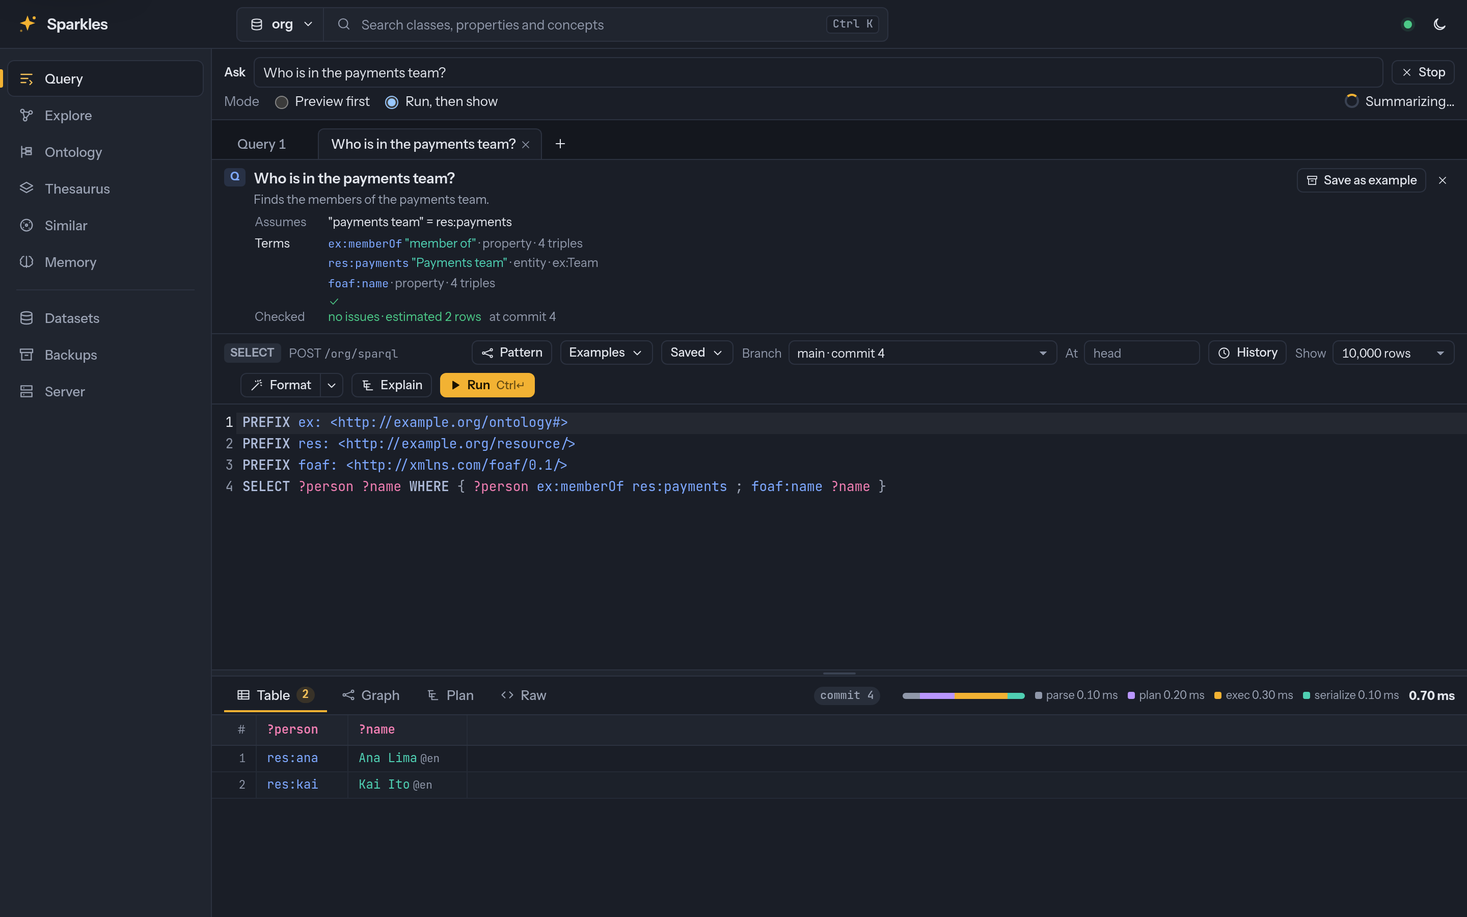
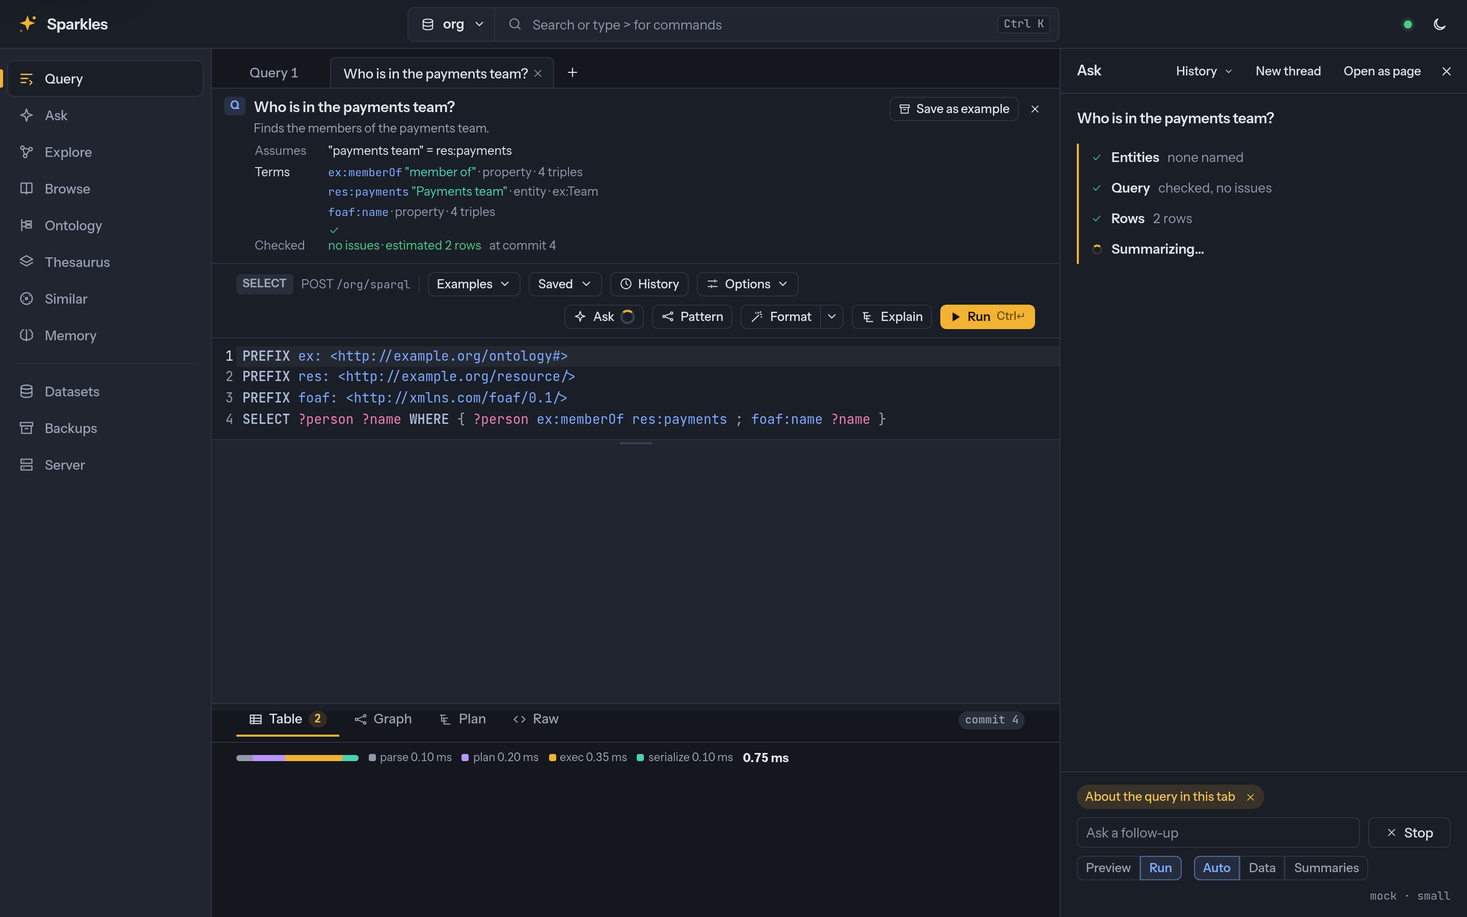
Describe the Ask thread in the AI guide, FEATURES, C18 and the roadmap, with its screenshots, and add item NEW-ITEM-2 for grounding from the structured context (NEW-ITEM-1)

diff --git a/ui/tests/screenshots-mock/screenshots.spec.ts b/ui/tests/screenshots-mock/screenshots.spec.ts
@@ -3,8 +3,9 @@
 // the mock backend that playwright.screenshots-mock.config.ts starts. The SKOS editing forms
 // use a `thesaurus` dataset and the SKOS layouts of mock/forms.mjs. The `org` dataset
 // gets a branch whose changes clash with main, so that the dataset page shows branches and
-// the commit graph and the merge page shows conflicts. The Ask bar runs the scripted
-// pipeline of mock/assistant.mjs, and a handoff link stands in for an agent's
+// the commit graph and the merge page shows conflicts. The Ask thread runs the scripted
+// pipeline of mock/assistant.mjs on its page, docked on the Query page and on a Browse
+// page, and a handoff link stands in for an agent's
 // `share_query`. The maps of relations, the communities, the Pattern pane, the diff graph
 // and the path finder on a query's graph use the `world` showcase dataset of
 // mock/world.mjs. The model configuration form uses the declared configuration of
@@ -138,43 +139,71 @@ test('merge', async ({ page }) => {
   await shoot(page, 'merge');
 });
 
-async function openQuery(page: Page) {
+async function runMode(page: Page) {
   await page.addInitScript(() =>
     localStorage.setItem('sparkles.askPrefs.local', JSON.stringify({ mode: 'run' })),
   );
-  await page.goto(`/ui/query?ds=${DATASET}`);
-  await expect(page.getByRole('region', { name: 'Ask bar' })).toBeVisible({ timeout: 30_000 });
 }
 
-async function ask(page: Page, question: string) {
-  const bar = page.getByRole('region', { name: 'Ask bar' });
-  await bar.getByRole('textbox').fill(question);
-  await bar.getByRole('button', { name: 'Ask' }).click();
+async function ask(scope: ReturnType<Page['getByRole']>, question: string) {
+  await scope.getByRole('textbox', { name: 'Question' }).fill(question);
+  await scope.getByRole('textbox', { name: 'Question' }).press('Enter');
 }
 
 test('ask-steps', async ({ page }) => {
-  // the mock holds this ask before its summary, so the step indicator stays up
+  // the mock holds this ask before its summary, so the turn shows its step and Stop
   await page.route(`**/${DATASET}/ask`, (route) =>
     route.continue({
       postData: JSON.stringify({ ...route.request().postDataJSON(), hold: 'summary' }),
     }),
   );
-  await openQuery(page);
-  await ask(page, 'Who is in the payments team?');
-  const bar = page.getByRole('region', { name: 'Ask bar' });
-  await expect(bar.getByRole('status')).toContainText('Summarizing');
+  await runMode(page);
+  await page.goto(`/ui/query?ds=${DATASET}`);
+  await page.getByRole('button', { name: 'Ask', exact: true }).click({ timeout: 30_000 });
+  const drawer = page.getByRole('complementary', { name: 'Ask' });
+  await ask(drawer, 'Who is in the payments team?');
+  await expect(drawer.getByRole('status')).toContainText('Summarizing');
   await expect(page.getByRole('grid')).toContainText('Kai Ito');
   await shoot(page, 'ask-steps', { spinners: 1 });
 });
 
 test('ask-answer', async ({ page }) => {
-  await openQuery(page);
-  await ask(page, 'Who is in the payments team?');
-  const answer = page.getByRole('region', { name: 'Answer' });
-  await expect(answer).toContainText(/cites \d+ of \d+ rows/);
-  await answer.getByRole('button', { name: '[1]' }).click();
-  await expect(page.getByRole('grid').locator('[aria-selected="true"]')).toHaveCount(1);
+  await runMode(page);
+  await page.goto(`/ui/ask?ds=${DATASET}`);
+  const thread = page.getByRole('region', { name: 'Thread' });
+  await ask(thread, 'Who is in the payments team?');
+  const turn = thread.getByRole('article', { name: 'Who is in the payments team?' });
+  await expect(turn.getByRole('group', { name: 'Feedback' })).toBeVisible({ timeout: 30_000 });
+  await turn.getByRole('button', { name: /^Query/ }).click();
+  await turn.getByRole('button', { name: 'Citation [1]' }).click();
+  await expect(turn.getByText('Cited rows', { exact: true })).toBeVisible();
+  await expect(turn.locator('blockquote').first()).toBeVisible();
   await shoot(page, 'ask-answer');
+});
+
+test('ask-drawer', async ({ page, request }) => {
+  expect(
+    (await request.put('/$/assistant/uni', { data: { enabled: true, send: 'rows' } })).ok(),
+  ).toBe(true);
+  try {
+    await runMode(page);
+    await page.goto(
+      `/ui/browse?ds=uni&iri=${encodeURIComponent('http://example.org/uni#Professor')}`,
+    );
+    await expect(page.locator('h1.term-title')).toBeVisible({ timeout: 30_000 });
+    await page.locator('h1.term-title').click();
+    await page.keyboard.press('Shift+A');
+    const drawer = page.getByRole('complementary', { name: 'Ask' });
+    // the empty thread offers questions about the class it carries as context
+    await expect(
+      drawer
+        .getByRole('group', { name: 'Suggested questions' })
+        .getByRole('button', { name: 'What are its subclasses?' }),
+    ).toBeVisible();
+    await shoot(page, 'ask-drawer');
+  } finally {
+    await request.put('/$/assistant/uni', { data: {} });
+  }
 });
 
 test('handoff', async ({ page }) => {
@@ -1369,9 +1398,7 @@ test('thesaurus-checks', async ({ page }) => {
   await page.goto('/ui/thesaurus?ds=thes');
   await expect(
     thesTree(page).getByRole('button', { name: 'Vertebrates', exact: true }),
-  ).toBeVisible({
-    timeout: 30_000,
-  });
+  ).toBeVisible({ timeout: 30_000 });
   await page.getByRole('tab', { name: 'Checks' }).click();
   await expect(page.getByRole('list', { name: 'Check results' })).toContainText('S13');
   await shoot(page, 'thesaurus-checks');

diff --git a/docs/specs/C18-natural-language-questions-and-ingest/OUTCOME.md b/docs/specs/C18-natural-language-questions-and-ingest/OUTCOME.md
@@ -2033,3 +2033,59 @@ stage diagnostics count both attempts when a byte refusal requires fallback. The
 fixtures do not measure model accuracy, establish general contextual resolution or
 claim a latency improvement. Item 263 remains open for the broader evidence and
 model-dependent evaluation contract. No paid provider was called.
+
+## Ask threads in the web UI
+
+The Ask bar on the query page became one `AskThread` component, shown as a page at
+`/ui/ask` and as a drawer docked beside any page of the shell. The drawer opens with
+`Shift+A`, from the palette's Ask row and from the rail. It docks at the right of a window
+1200 pixels or wider, floats over a narrower one and is a bottom sheet on a phone, and
+**Open as page** moves the thread to the page. Browse, Ontology, Thesaurus and Explore
+pass the resource they show, and the Query page its tab's query, as a context chip with
+questions that suit the kind of resource. On the Query page the thread docks beside the
+editor and still opens each answer in a query tab, with the question header, retries,
+clarifications, **Try harder** and **Save as example** where the Ask bar had them.
+
+Each turn shows the answer with its numbered citations and folds for the query with its
+check, the rows as a table or a small graph, the sources and the steps with their
+diagnostics. The sources are the cited rows, the memory facts about the cited and linked
+entities from `POST /{ds}/recall` with their quotes, documents, status and confidence,
+and the community reports a global answer read. **Open in Query**, **Open in Explore**,
+**Save as query** and the feedback buttons act on a turn. A running turn shows its step
+and **Stop**, follow-ups carry the thread and its earlier turns, and **New thread**
+starts over. The history lists the threads by day and reopens one.
+
+The server changes are limited to the gaps the thread needed. `POST /{ds}/ask` takes an
+optional `thread` id and an optional `about` object with an absolute IRI, a kind and a
+label. The server renders `about` into the prompt exactly as the `(about <IRI>)` suffix
+a person could type, and stores the person's own words with the resource beside them,
+so the history shows the question as asked. Grounding could later seed entity linking
+and predicate use from `about` directly, which roadmap item NEW-ITEM-2 records, and that
+change would need an accuracy measurement because it alters what the model sees.
+
+Format 2 of `asks.json` stores a thread id, the `about` resource and the answer without
+its rows, with the explanation, the assumptions, the summary with its citations, the
+points of a global answer with their reports, the verdict, the diagnosis and the linked
+entities. Text is capped at 8000 characters and lists at 50 items. A reader of format 1
+refuses format 2 as an unsupported settings version, so downgrading a server after it
+has written format 2 makes that dataset's history unreadable to the older build until
+the file is removed. Format 2 reads format 1 records as threads of one question without
+an answer. A history file the server cannot read answers `409` on the list and delete
+routes and is left unchanged, instead of being replaced by a new history.
+
+A stored answer was written from the asker's view, so the record keeps an access
+footprint of the graphs the answer read, the guarded graphs among them and the branch.
+`GET /$/asks/{ds}` returns the answer only when the caller's current view, built with
+the same grants and masking as a query, covers that footprint and can read every guarded
+graph, and otherwise returns the record with `answerWithheld` and no answer. This is the
+rule C22 §6.6 applies to the cleared global text. The route filters by `thread`, oldest
+first within a thread. Rows stay off the server, and **Show rows** reruns the stored
+query read-only at its commit, falling back to the head with a note when the commit is
+no longer kept, with no model call.
+
+The UI work did not change the prompts, grounding or model calls of an Ask without
+`about`, so it carries no accuracy measurement and no paid provider was called. Mock
+Playwright suites cover the turn, its folds and actions, follow-ups, history and a
+format 1 record, Stop, clarification, the drawer on Browse with the keyboard alone, and
+the phone sheet. Server tests cover threads, format 1 round trips, refusal of a newer or
+damaged history, and readers with fewer grants than the asker and with masking.

diff --git a/docs/ai/README.md b/docs/ai/README.md
@@ -70,8 +70,8 @@ build community reports.
 
 ### Questions in plain language
 
-* `sparkles ask`, `POST /{ds}/ask` and the query page's Ask bar turn a question into a
-  checked SPARQL query ([C18](../specs/C18-natural-language-questions-and-ingest/README.md),
+* `sparkles ask`, `POST /{ds}/ask` and the web UI's [Ask thread](#the-ask-thread) turn a
+  question into a checked SPARQL query ([C18](../specs/C18-natural-language-questions-and-ingest/README.md),
   [USAGE.md](../USAGE.md#asking-questions-with-a-model),
   [API.md](../API.md#natural-language-questions)). On DBpedia's billion quads, an Ask takes
   about two seconds with under 512 MiB of anonymous memory.
@@ -150,10 +150,39 @@ build community reports.
 * An agent hands a query it wrote to the web UI with the `share_query` tool, and the
   query page opens it with the question, the explanation and the terms it uses, without
   running it.
-* The server keeps each person's questions for `historyDays` in `/$/asks/{ds}`, records
-  feedback, and counts answers, escalations, tokens and cost in `GET /$/models/usage` and
+* The server keeps each person's questions for `historyDays` in `/$/asks/{ds}`, with
+  their threads and their answers without rows, records feedback, and counts answers, escalations, tokens and cost in `GET /$/models/usage` and
   `/$/metrics`. `scripts/eval-ask` measures each model on the 68 questions of
   `testsuite/ask/demo.json`.
+
+### The Ask thread
+
+The web UI asks through one thread component, shown as a page at `/ui/ask` and as a
+drawer docked beside any page
+([C18 §6.1](../specs/C18-natural-language-questions-and-ingest/SPEC.md#61-where-it-lives)).
+
+* `Shift+A`, the palette's Ask row and the rail's Ask page open it when the dataset has an
+  assistant. The drawer docks at the right of a wide window, floats over a medium one and
+  is a bottom sheet on a phone, and **Open as page** moves the thread to `/ui/ask`.
+* A Browse, Ontology, Thesaurus or Explore page passes its resource, and the Query page its
+  query, as a context chip with questions that suit it. The request carries the resource
+  as `about`, so the history keeps the person's own words, and the chip can be removed.
+* Each turn shows the answer with its citations, and folds for the query, the rows as a
+  table or a small graph, the sources and the steps with their diagnostics. The sources are
+  the cited rows, the memory facts about the cited entities with their quotes and documents,
+  and the community reports a global answer read. **Open in Query**, **Open in Explore**,
+  **Save as query** and **Right**, **Edited** or **Wrong** act on the turn.
+* A running turn shows its current step and **Stop**. Follow-ups carry the thread's id and
+  earlier turns, and **New thread** starts over. The run mode, the answer source and the
+  model stay beside the field.
+* On the Query page the thread docks beside the editor and opens each answer in a tab, as
+  the Ask bar did, with retries, clarifications and **Try harder** in place.
+* The history lists threads by day and reopens one from the answers the server keeps.
+  Rows are not kept, so **Show rows** reruns the stored query read-only at its commit
+  without a model. A reader whose grants do not cover every graph the answer read gets
+  the record without its answer ([API.md](../API.md#ask-history)).
+
+![The Ask drawer docked beside the Query page while it works, showing Summarizing after the query results have arrived, with Stop beside the field](../images/ask-steps.png)
 
 ### Ask stage diagnostics
 
@@ -533,6 +562,9 @@ dependencies are recorded in the [central roadmap](../ROADMAP.md).
 
 ### AI and agents
 
+* A question asked with a context chip reaches the model as the question followed by
+  `(about <IRI>)`, as a typed suffix would. Grounding does not yet seed entity linking or
+  predicate use from the structured `about` resource, which roadmap item NEW-ITEM-2 adds.
 * ChatGPT-plan model access is planned in [C28](../specs/C28-chatgpt-model-access.md),
   roadmap item 344. The existing OpenAI-compatible provider uses Chat Completions with
   configured API credentials. It does not accept a ChatGPT subscription as model access.

diff --git a/docs/ROADMAP.md b/docs/ROADMAP.md
@@ -623,6 +623,7 @@ numbered item when it is ready to start.
 
 | # | Item | Spec | Size |
 |---|---|---|---|
+| NEW-ITEM-2 | **Ask grounding from the structured context.** A question asked from a page carries its resource as `about`, which the server renders into the prompt as the `(about <IRI>)` suffix and stores on the record. Let grounding use it directly, as a linked entity with its predicate use and class, so that the model need not find the IRI in the text, and measure the effect on the evaluation sets before turning it on. | [C18](specs/C18-natural-language-questions-and-ingest/OUTCOME.md#ask-threads-in-the-web-ui) | S |
 | 612 | **Node-level alternatives in forms.** Forms offer `sh:or` and `sh:xone` only when every alternative is a value shape without paths. An alternative with its own property shapes, as in an address that is either postal or electronic, is not shown as a choice of sub-forms. Build the sub-form choice, check the chosen branch in the browser and keep saves atomic. | [U02](specs/U02-shape-driven-forms/SPEC.md#outcome) | M |
 | 613 | **Nested values through complex paths.** A field whose path is a sequence, alternative or repeated path is read-only, and the nested model refuses when such a field declares `sh:node` instead of reading its children. Edit the values where the path names one triple to change, and admit the path's producer before it runs. | [U02](specs/U02-shape-driven-forms/SPEC.md#outcome) | M |
 | 614 | **Blank-named graphs and model-source admission in forms.** The nested model refuses when a visible value sits in a graph named by a blank node, because the form's graph members are IRIs. Represent such graphs, and bring source-shape parsing and prefix metadata under the nested model's preparation allowance. | [U02](specs/U02-shape-driven-forms/SPEC.md#231-nested-read-models-in-the-rust-library) | S–M |
@@ -908,6 +909,7 @@ for them.
 These items are finished. [FEATURES.md](FEATURES.md) describes what they deliver, and the
 linked spec Outcome records how they landed.
 
+- **NEW-ITEM-1.** Ask threads in the web UI. One thread component serves `/ui/ask` and a drawer docked beside any page, opened with `Shift+A` or the palette, with the page's resource or query as a context chip, folds for each answer's query, rows, sources and steps, follow-ups, Stop and a history that reopens threads. The server keeps each answer without its rows in format 2 of `asks.json`, with a thread id, the `about` resource and a footprint of the graphs it read, and shows a stored answer only to a reader whose grants cover that footprint. [C18](specs/C18-natural-language-questions-and-ingest/OUTCOME.md#ask-threads-in-the-web-ui)
 - **630.** Edit mode on browser pages. A caller who can write switches an ontology browser page into edit mode and changes its definition, synonyms, annotations, parents and axioms, or a concept's labels and links, in place, each change a previewed commit through the editors' session branches, undo and access checks, with a bottom bar on a phone. [U12](specs/U12-ontology-workbench/SPEC.md#ontology-browser-edit-mode)
 - **616.** Ontology browser. `/ui/browse` gives each entity of a dataset's ontologies and thesauri a read-only page with its definition, synonyms, notes, labels, cross-references, an infobox, a lineage tree with a graph view on the Explore canvas, its axioms as linked Manchester prose, what links here, its use in other datasets and downloads in four formats, and each ontology a landing page with its header, counts, top classes and search. The pages read the new `hierarchy` and `term` routes, which scan the store's indexes around one entity. [U12](specs/U12-ontology-workbench/SPEC.md#ontology-browser)
 - **681.** Eager `star-lookup` after stage 4 of item 453. The charged query state no longer adds to it. With 12 threads on forge the final build reads 0.964 of the stage 4 build and 0.996 of 005df56d, and with one thread the build after review reads 0.988 of 005df56d. The final build's 1.9% with one thread is the alignment of an unchanged search loop, which item 696 follows. [X14](specs/X14-unified-executor/SPEC.md#per-query-costs-after-stage-4)

diff --git a/docs/specs/C18-natural-language-questions-and-ingest/SPEC.md b/docs/specs/C18-natural-language-questions-and-ingest/SPEC.md
@@ -896,6 +896,14 @@ A separate page would duplicate all of that. The page gains two things.
 The Explore page's search box gets a hint "Ask a question…" that switches to the query
 page with the question filled in, when the dataset has an assistant.
 
+The Ask bar later became an Ask thread, one component shown as a page at `/ui/ask` and as
+a drawer docked beside any page. The drawer opens from the palette's Ask row and with
+Shift+A, carries the page's resource or query as a removable context chip, and becomes a
+bottom sheet on a phone. On the query page the thread docks beside the editor and still
+opens each answer in a tab, so every step of §6.2 keeps its place. Each turn folds its
+query, rows, sources and steps under the answer, follow-ups continue the thread, and the
+history lists threads and reopens them from their stored answers.
+
 The Ask bar gives the UI the same flow that an MCP agent has, with the steps of §4.1 run
 by the server. Nothing about the result is special. It is a query tab like any other,
 and it uses the query page's existing components.
@@ -1028,9 +1036,23 @@ the other tabs, and an **Asked** list in the Saved menu shows the last 50 questi
 this browser with their queries. Nothing is stored on the server.
 
 From Phase 2 the server keeps each principal's asks for the dataset, with the question,
-the final query, the commit, the feedback, the usage and the routing record of §5.5,
-but not the rows or the summary text. Only the principal sees its own history, through
-`GET /$/asks/{ds}`, and can delete entries. No role can read another principal's
+the final query, the commit, the feedback, the usage and the routing record of §5.5.
+Format 2 of `asks.json` also keeps a thread id, the resource the question was about, and
+the answer without its rows. The answer holds the explanation, the assumptions, the
+summary text with its citations, the points of a global answer with their reports, the
+check verdict, the diagnosis and the linked entities, with each text capped at 8000
+characters and each list at 50 items. Rows are not kept, and the UI reruns the stored
+query read-only at its commit to show them again, with no model call. A reader that
+knows only format 1 refuses format 2 cleanly, and format 2 reads format 1 records as
+threads of one question without an answer.
+
+A stored answer was written from the asker's view of the data, so the server records
+which graphs it read, as a footprint of the guarded and named graphs and the branch. The
+list route returns the answer only to a caller whose current view, under the same grants
+and masking as a query, can read every graph in that footprint, and otherwise returns
+the record with `answerWithheld` set and no answer, the same rule as the cleared global
+text of C22 §6.6. Only the principal sees its own history, through
+`GET /$/asks/{ds}`, which filters by `thread`, and can delete entries. No role can read another principal's
 questions, including dataset and server admins, because a question can contain
 personal or confidential text (§14). Admins see counts and usage only.
 

diff --git a/README.md b/README.md
@@ -203,7 +203,7 @@ editor and browser and the app shell. The collapsed panel below it has more work
   </tr>
   <tr>
     <td><img src="docs/images/explore-communities.png" alt="The Explore overview drawing seven GraphRAG communities of a freight network as circles sized by their members and coloured by report status, with the head office selected and its report, findings, sub-communities and members beside the picture"></td>
-    <td><img src="docs/images/ask-answer.png" alt="The Ask bar with a drafted SPARQL query, its results and a summary whose numbered citations point to result rows"></td>
+    <td><img src="docs/images/ask-answer.png" alt="The Ask page with a thread's answer, its checked query, its rows and its sources, with the first cited row marked and the memory facts about it quoted"></td>
   </tr>
   <tr>
     <td>GraphRAG communities with their reports</td>
@@ -335,7 +335,7 @@ editor and browser and the app shell. The collapsed panel below it has more work
   </tr>
   <tr>
     <td><img src="docs/images/handoff.png" alt="A query handed over by an agent, open in the query editor with its question, assumptions, the terms it uses and a clean check"></td>
-    <td><img src="docs/images/ask-steps.png" alt="The Ask bar while it works, showing Summarizing after the query results have arrived"></td>
+    <td><img src="docs/images/ask-steps.png" alt="The Ask drawer docked beside the Query page while it works, showing Summarizing after the query results have arrived, with Stop beside the field"></td>
   </tr>
   <tr>
     <td>A query an agent handed over for review</td>

diff --git a/CHANGELOG.md b/CHANGELOG.md
@@ -24,6 +24,15 @@ monitor. Scripts, clients and probes that used `/$/ping` as ready to serve move 
 
 ### Added
 
+The web UI asks through an Ask thread, a page at `/ui/ask` and a drawer beside any page
+that `Shift+A` and the palette open with the page's resource or query as context. Each
+answer folds its query, rows, sources and steps, follow-ups continue the thread, and the
+history reopens threads. The Ask bar on the query page is replaced by the docked thread.
+`POST /{ds}/ask` takes `thread` and `about`, and `GET /$/asks/{ds}` filters by `thread`
+and returns each stored answer to callers whose grants cover the graphs it read. The
+history file `asks.json` moves to format 2, which older builds refuse, so a downgrade
+after an Ask leaves that dataset's history unreadable to the older build.
+
 `sparkles ontology reason`, `reduce` and `relax` do what ROBOT 1.9.11's commands of the
 same names do, with ROBOT's options, defaults, errors and exit statuses (roadmap items
 634 and 635). They read a file without a database or a database with `--loc`, write

diff --git a/docs/FEATURES.md b/docs/FEATURES.md
@@ -131,6 +131,16 @@ and execution timings while the remaining accuracy and latency work stays open.
 Anthropic providers use [prompt caching](ai/README.md#questions-in-plain-language) for
 the stable start of each prompt, and budgets price cache writes and reads apart.
 
+The web UI asks through an [Ask thread](ai/README.md#the-ask-thread), shown as a page at
+`/ui/ask` and as a drawer beside any page. `Shift+A` or the palette's Ask row opens the
+drawer with the page's resource or query as context. Each answer folds its query, rows,
+sources and steps, follow-ups continue the thread, and the history reopens a thread from
+the answers the server keeps.
+
+![The Ask page with a thread's answer, its checked query, its rows and its sources, with the first cited row marked and the memory facts about it quoted](images/ask-answer.png)
+
+![The Ask drawer beside a Browse page of the class Professor, carrying the class as context and offering questions about it](images/ask-drawer.png)
+
 <a id="web-ui"></a>
 <a id="query-page"></a>
 <a id="explore"></a>
